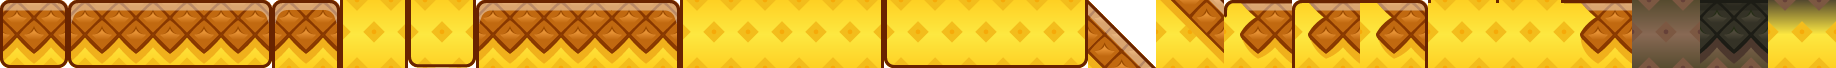
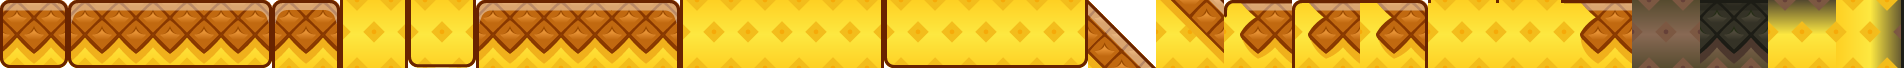
Muri laterali delle grotte con lo sprite 45

diff --git a/game.js b/game.js
@@ -46,7 +46,7 @@ const PIX={block:0,horizontal_left:1,horizontal_middle:2,horizontal_right:3,vert
 const ERBANAN=new Image();ERBANAN.src='assets/erbananas.webp'; /* il ciuffo d'ananas dell'utente al posto del cespuglio nel mondo 1 */
 /* in grandezza vera, alla scala delle caselle da 68 del paesaggio: così il bordo scuro è spesso come quello del pavimento */
 function ciuffo(c,x,y,ts){const w=ERBANAN.width*ts/68,h=ERBANAN.height*ts/68;if(w)c.drawImage(ERBANAN,x-w/2,y-h,w,h);}
-const PAES=new Image();PAES.src='assets/paesaggio.webp';const PAES_RAMPA=16,PAES_SOTTO=17,PAES_BORDO={m:18,g:19,v:20},PAES_UNIONE=21,PAES_COLONNA=22,PAES_LATO_COLONNA=23,PAES_GROTTA={fondo:24,pav:25,base:26}; /* 17: la terra sotto una rampa a scalini, con la buccia della rampa dopo nell'angolo; 18-20: dove il piano finisce a sinistra, ai piedi di un muro più alto (m), con un gradino in giù (g) o sul vuoto (v); a destra si capovolgono, il bordo sul vuoto al contrario; 21: il muro accanto al bordo sul vuoto, dove le due linee si uniscono; 22: sotto una colonna, con il piano che arriva dai due lati; 23: il piano ai lati di quella colonna, senza l'uncino; 24-26: la grotta, sfondo, pavimento e la casella sotto il pavimento che torna gialla */
+const PAES=new Image();PAES.src='assets/paesaggio.webp';const PAES_RAMPA=16,PAES_SOTTO=17,PAES_BORDO={m:18,g:19,v:20},PAES_UNIONE=21,PAES_COLONNA=22,PAES_LATO_COLONNA=23,PAES_GROTTA={fondo:24,pav:25,base:26,muro:27}; /* 17: la terra sotto una rampa a scalini, con la buccia della rampa dopo nell'angolo; 18-20: dove il piano finisce a sinistra, ai piedi di un muro più alto (m), con un gradino in giù (g) o sul vuoto (v); a destra si capovolgono, il bordo sul vuoto al contrario; 21: il muro accanto al bordo sul vuoto, dove le due linee si uniscono; 22: sotto una colonna, con il piano che arriva dai due lati; 23: il piano ai lati di quella colonna, senza l'uncino; 24-27: la grotta, sfondo, pavimento, la casella sotto il pavimento che torna gialla e il muro a sinistra (a destra si capovolge) */
 function paes(c,i,x,y,w,h,flip,capo){const s=c.imageSmoothingEnabled;c.imageSmoothingEnabled=false;if(flip||capo){c.save();c.translate(flip?x+w:x,capo?y+h:y);c.scale(flip?-1:1,capo?-1:1);c.drawImage(PAES,i*68,0,68,68,0,0,w,h);c.restore();}else c.drawImage(PAES,i*68,0,68,68,x,y,w,h);c.imageSmoothingEnabled=s;}
 function sp(c,n,x,y,w,h,flip){if(n.startsWith('terrain_sand_')&&PAES.complete){const t=n.slice(13);if(t==='ramp_short_b'){paes(c,PAES_RAMPA,x,y,w,h,flip);return;}if(t in PIX){paes(c,PIX[t],x,y,w,h);return;}}
  const q=KMAP[n],im=q&&q[2]?KIT2:KIT;if(!q||!im.complete)return;if(flip){c.save();c.translate(x+w,y);c.scale(-1,1);c.drawImage(im,q[0],q[1],96,96,0,0,w,h);c.restore();}else c.drawImage(im,q[0],q[1],96,96,x,y,w,h);}
@@ -578,7 +578,7 @@ function disegna2d(){
  if(G.boom){const e=(G.t-G.boom.t)/.55;if(e<1)disegnaEspl(c,sx(G.boom.x),sy(G.boom.y),G.boom.r*ts,e);else G.boom=null;}
  for(const f of M.finti||[]){if(f[2]<c0||f[0]>c1)continue;const dentro=p.x>f[0]-.7&&p.x<f[2]+.7&&p.y>f[1]-.7&&p.y<f[3]+.7;f.a=lerp(f.a===undefined?1:f.a,dentro?.05:1,.15);
   const g=clamp((1-f.a)/.7,0,1);if(g>.01){c.globalAlpha=g;/* pavimento con sotto la casella che torna gialla; il soffitto per ora è lo stesso capovolto */
-   const gr=(x,y,i,capo)=>{if(pieno(cel(x,y)))paes(c,i,sx(x)-ts/2,sy(y)-ts/2,mz,mz,false,capo);};for(let x=f[0];x<=f[2];x++){if(pieno(cel(x,f[1]-1))){gr(x,f[1]-1,PAES_GROTTA.pav);gr(x,f[1]-2,PAES_GROTTA.base);}if(pieno(cel(x,f[3]+1))){gr(x,f[3]+1,PAES_GROTTA.pav,true);if(pieno(cel(x,f[3]+3)))gr(x,f[3]+2,PAES_GROTTA.base,true);}}}
+   const gr=(x,y,i,capo,flip)=>{if(pieno(cel(x,y)))paes(c,i,sx(x)-ts/2,sy(y)-ts/2,mz,mz,flip,capo);};for(let y=f[1];y<=f[3];y++){gr(f[0]-1,y,PAES_GROTTA.muro);gr(f[2]+1,y,PAES_GROTTA.muro,false,true);}for(let x=f[0];x<=f[2];x++){if(pieno(cel(x,f[1]-1))){gr(x,f[1]-1,PAES_GROTTA.pav);gr(x,f[1]-2,PAES_GROTTA.base);}if(pieno(cel(x,f[3]+1))){gr(x,f[3]+1,PAES_GROTTA.pav,true);if(pieno(cel(x,f[3]+3)))gr(x,f[3]+2,PAES_GROTTA.base,true);}}}
   c.globalAlpha=f.a;
   for(let y=f[1];y<=f[3];y++)for(let x=f[0];x<=f[2];x++)if(!pieno(cel(x,y)))sp(c,nomeTile(x,y,k),sx(x)-ts/2,sy(y)-ts/2,mz,mz);c.globalAlpha=1;}
  if(G.comboV&&G.t-G.comboV.t<.9){const e=(G.t-G.comboV.t)/.9,z=ts*(.9+Math.min(1,e*6)*.35+G.comboV.n*.04);c.save();c.globalAlpha=1-e*e;c.font=`400 ${z}px "Bowlby One","Arial Black",sans-serif`;c.textAlign='center';c.lineWidth=z*.16;c.strokeStyle='#2a1a10';c.fillStyle='#f6c445';const tx=sx(p.x),ty=sy(p.y+1.6+e*1.2);c.strokeText('x'+G.comboV.n,tx,ty);c.fillText('x'+G.comboV.n,tx,ty);c.restore();}

diff --git a/CLAUDE.md b/CLAUDE.md
@@ -36,7 +36,7 @@ Gioco per browser pensato per il telefono in orizzontale, pubblicato con GitHub 
   - `x` blocco che crolla: mezzo secondo dopo che ci sali cade, e torna dopo 4 secondi.
   - `y` botola: sembra terra, ma se ti fermi sopra crolla dopo 0,8 secondi. Per ora nel livello 1 non ce ne sono: l'utente non le voleva dove c'erano.
   - `X` muro crepato: si apre solo con l'esplosione.
-  - **Pareti finte** (rettangoli in `FINTI`): si disegnano come terra sopra quello che c'è dietro, si attraversano e sbiadiscono quando Matteo ci entra. Dietro c'è una grotta, con i pezzi dell'utente in `PAES_GROTTA`: sfondo `sprite-42.png`, pavimento `sprite-43.png` e sotto il pavimento `sprite-44.png`, che torna gialla. Il soffitto per ora è il pavimento capovolto (e il 44 capovolto sopra, solo se sopra c'è altra terra). Mancano ancora i lati e gli angoli della grotta.
+  - **Pareti finte** (rettangoli in `FINTI`): si disegnano come terra sopra quello che c'è dietro, si attraversano e sbiadiscono quando Matteo ci entra. Dietro c'è una grotta, con i pezzi dell'utente in `PAES_GROTTA`: sfondo `sprite-42.png`, pavimento `sprite-43.png` e sotto il pavimento `sprite-44.png`, che torna gialla. Il soffitto per ora è il pavimento capovolto (e il 44 capovolto sopra, solo se sopra c'è altra terra). I muri ai lati, nella colonna accanto alla grotta, sono `sprite-45.png` (a destra capovolto). Mancano ancora gli angoli della grotta.
 - Valide in tutto il gioco:
   - **Scatto:** quando colpisce il primo nemico elimina tutti quelli nel suo blocco (entro una casella più in là); se è partito slanciato (sopra velocità 8, `p.catena=2`) quelli entro due blocchi. Poi, se lo scatto era lento, Matteo si ferma e rimbalza indietro; se era slanciato va avanti senza fermarsi. `forte` si ricalcola per ogni nemico.
   - **Salto in testa:** cadendo sopra un nemico che cammina (`e`) o vola (`f`) lo uccide e rimbalza. Quelli con le spine (`r`) e i blocchi che sparano (`g`) fanno male anche dall'alto.
